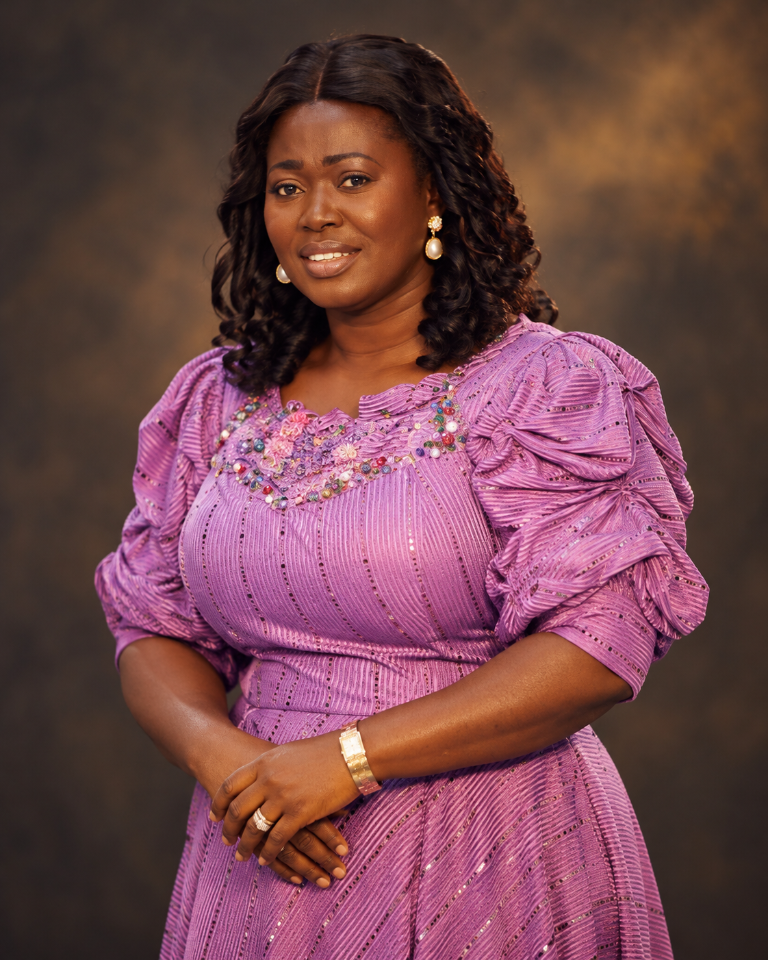
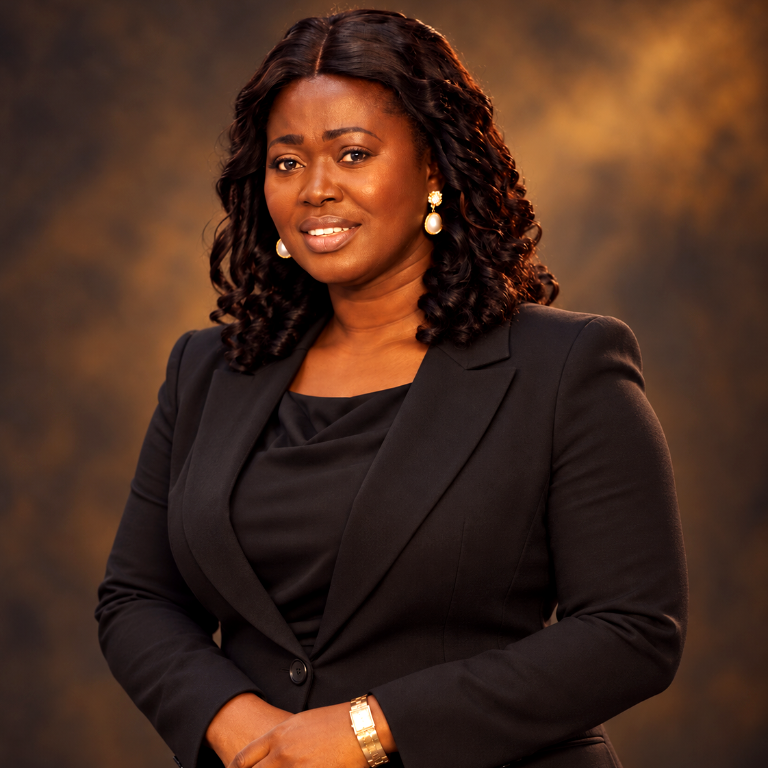
Add leadership profiles to about page

diff --git a/about.html b/about.html
@@ -227,6 +227,36 @@
                 </div>
               </article>
             </div>
+            <div class="col-md-6 col-xl-4">
+              <article class="executive-card">
+                <div class="executive-photo executive-photo-placeholder"><span>NEW</span></div>
+                <div class="executive-body">
+                  <p class="eyebrow text-emerald">OPERATIONS &amp; DELIVERY</p>
+                  <h3>Leadership Team Member</h3>
+                  <p>
+                    Supporting strategic coordination, operational alignment and dependable execution across ASGLOBE’s growth priorities.
+                  </p>
+                  <p>
+                    This leadership role will be expanded as the team continues to strengthen its service and coordination capabilities.
+                  </p>
+                </div>
+              </article>
+            </div>
+            <div class="col-md-6 col-xl-4">
+              <article class="executive-card">
+                <div class="executive-photo executive-photo-placeholder"><span>NEW</span></div>
+                <div class="executive-body">
+                  <p class="eyebrow text-emerald">STRATEGY &amp; GROWTH</p>
+                  <h3>Leadership Team Member</h3>
+                  <p>
+                    Contributing to market development, relationship building and long-term commercial opportunities for the organisation.
+                  </p>
+                  <p>
+                    This card can be updated with the relevant name and biography once the final profile is confirmed.
+                  </p>
+                </div>
+              </article>
+            </div>
           </div>
         </div>
       </section>

diff --git a/css/style.css b/css/style.css
@@ -132,6 +132,7 @@ textarea.form-control { min-height: initial; }
 .executive-section { background: linear-gradient(180deg, #ffffff 0%, #f8fbfb 100%); }
 .executive-card { background: #fff; border: 1px solid #e3e9ee; box-shadow: 0 10px 26px rgba(16,43,70,.05); height: 100%; padding: 1.5rem; }
 .executive-photo { border: 3px solid rgba(16,43,70,.08); border-radius: 50%; display: block; height: 130px; margin: 0 auto 1.25rem; object-fit: cover; width: 130px; }
+.executive-photo-placeholder { align-items: center; background: linear-gradient(135deg, var(--navy), var(--emerald)); border-color: rgba(15,47,73,.15); color: rgba(255,255,255,.9); display: flex; font: 700 .72rem/1 "Manrope", sans-serif; justify-content: center; letter-spacing: .12em; text-transform: uppercase; }
 .executive-avatar { align-items: center; background: linear-gradient(135deg, var(--navy), var(--emerald)); border-radius: 50%; color: white; display: inline-flex; font: 700 1.1rem/1 "Manrope", sans-serif; height: 68px; justify-content: center; margin-bottom: 1.2rem; width: 68px; }
 .executive-body .eyebrow { margin-bottom: .5rem; }
 .executive-body h3 { font-size: 1.35rem; margin-bottom: .8rem; }
